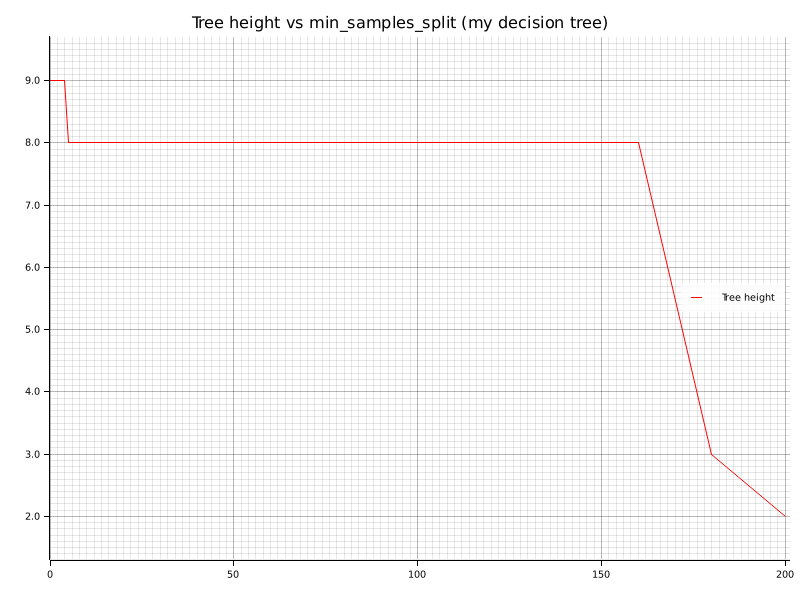
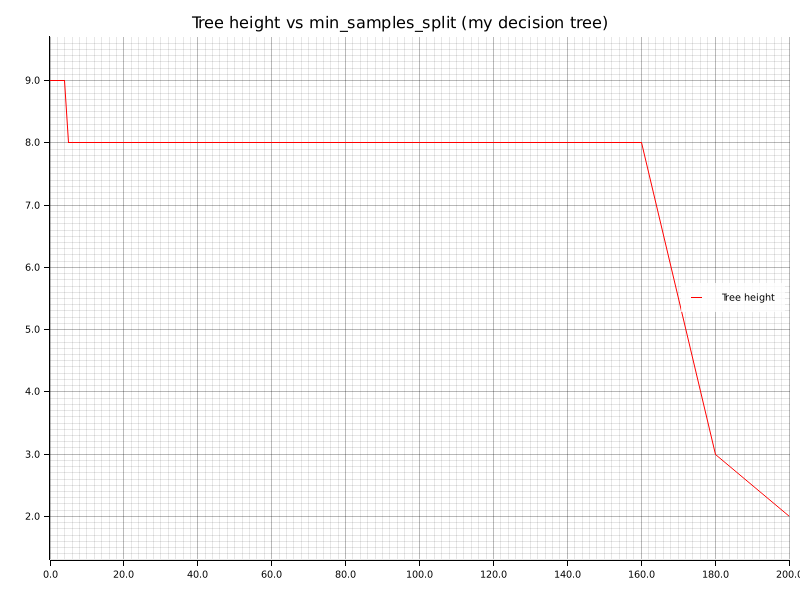
feat: add more plots

diff --git a/src/main.rs b/src/main.rs
@@ -28,7 +28,7 @@ fn split(samples: &[Sample], train_ratio: f64) -> (Vec<Sample>, Vec<Sample>) {
 }
 
 fn plot_curve(
-    values: &[(i32, f64)],
+    values: &[(f64, f64)],
     title: &str,
     label: &str,
     filename: &str,
@@ -44,7 +44,7 @@ fn plot_curve(
     let margin = 0.1 * (max_value - min_value);
 
     #[allow(clippy::range_plus_one)]
-    let x_range = values[0].0..values.last().unwrap().0 + 1;
+    let x_range = values[0].0..values.last().unwrap().0;
     let y_range = (min_value - margin)..(max_value + margin);
 
     let mut chart = ChartBuilder::on(&root)
@@ -152,8 +152,12 @@ fn main() {
     run_decision_tree(&train_samples, &test_samples);
     run_random_forest(&train_samples, &test_samples);
 
-    explore_my_decision_tree(&train_samples);
-    explore_smartcore_decision_tree(&train_samples);
+    explore_my_decision_tree_min_samples_split(&train_samples);
+    explore_my_decision_tree_min_gain(&train_samples);
+    explore_my_decision_tree_max_depth(&train_samples);
+    explore_smartcore_decision_tree_min_samples_split(&train_samples);
+    explore_smartcore_decision_tree_min_samples_leaf(&train_samples);
+    explore_smartcore_decision_tree_max_depth(&train_samples);
 
     explore_my_decision_tree_accuracy(&train_samples, &test_samples);
     explore_smartcore_decision_tree_accuracy(&train_samples, &test_samples);
@@ -192,8 +196,12 @@ fn run_random_forest(train_samples: &[Sample], test_samples: &[Sample]) {
 const MIN_SAMPLES_SPLITS: [usize; 22] = [
     0, 1, 2, 3, 4, 5, 10, 15, 20, 30, 40, 50, 60, 70, 80, 90, 100, 120, 140, 160, 180, 200,
 ];
+const MIN_GAINS: [f64; 14] = [
+    0.01, 0.02, 0.03, 0.04, 0.05, 0.06, 0.07, 0.08, 0.09, 0.1, 0.2, 0.3, 0.4, 0.5,
+];
+const MAX_DEPTHS: [usize; 10] = [1, 2, 3, 4, 5, 6, 7, 8, 9, 10];
 
-fn explore_my_decision_tree(train_samples: &[Sample]) {
+fn explore_my_decision_tree_min_samples_split(train_samples: &[Sample]) {
     const MAX_DEPTH: usize = 1000;
     const MIN_GAIN: f64 = 0.00001;
 
@@ -204,10 +212,7 @@ fn explore_my_decision_tree(train_samples: &[Sample]) {
         tree.fit(train_samples);
 
         let tree_height = tree.get_height();
-        height_data.push((
-            i32::try_from(min_samples_split).unwrap(),
-            tree_height as f64,
-        ));
+        height_data.push((min_samples_split as f64, tree_height as f64));
     }
 
     plot_curve(
@@ -219,7 +224,53 @@ fn explore_my_decision_tree(train_samples: &[Sample]) {
     .unwrap();
 }
 
-fn explore_smartcore_decision_tree(train_samples: &[Sample]) {
+fn explore_my_decision_tree_min_gain(train_samples: &[Sample]) {
+    const MAX_DEPTH: usize = 1000;
+    const MIN_SAMPLES_SPLIT: usize = 5;
+
+    let mut height_data = Vec::new();
+
+    for &min_gain in &MIN_GAINS {
+        let mut tree = DecisionTree::new(MAX_DEPTH, MIN_SAMPLES_SPLIT, min_gain);
+        tree.fit(train_samples);
+
+        let tree_height = tree.get_height();
+        height_data.push((min_gain, tree_height as f64));
+    }
+
+    plot_curve(
+        &height_data,
+        "Tree height vs min_gain (my decision tree)",
+        "Tree height",
+        "tree_height_vs_min_gain.png",
+    )
+    .unwrap();
+}
+
+fn explore_my_decision_tree_max_depth(train_samples: &[Sample]) {
+    const MIN_SAMPLES_SPLIT: usize = 1;
+    const MIN_GAIN: f64 = 0.00001;
+
+    let mut height_data = Vec::new();
+
+    for &max_depth in &MAX_DEPTHS {
+        let mut tree = DecisionTree::new(max_depth, MIN_SAMPLES_SPLIT, MIN_GAIN);
+        tree.fit(train_samples);
+
+        let tree_height = tree.get_height();
+        height_data.push((max_depth as f64, tree_height as f64));
+    }
+
+    plot_curve(
+        &height_data,
+        "Tree height vs max_depth (my decision tree)",
+        "Tree height",
+        "tree_height_vs_max_depth.png",
+    )
+    .unwrap();
+}
+
+fn explore_smartcore_decision_tree_min_samples_split(train_samples: &[Sample]) {
     let x = DenseMatrix::from_2d_array(
         &train_samples
             .iter()
@@ -247,10 +298,7 @@ fn explore_smartcore_decision_tree(train_samples: &[Sample]) {
 
         let tree_height = tree.depth();
 
-        height_data.push((
-            i32::try_from(min_samples_split).unwrap(),
-            tree_height as f64,
-        ));
+        height_data.push((min_samples_split as f64, tree_height as f64));
     }
 
     plot_curve(
@@ -258,6 +306,87 @@ fn explore_smartcore_decision_tree(train_samples: &[Sample]) {
         "Tree height vs min_samples_split (smartcore decision tree)",
         "Tree height",
         "tree_height_vs_min_samples_split_smartcore.png",
+    )
+    .unwrap();
+}
+
+fn explore_smartcore_decision_tree_min_samples_leaf(train_samples: &[Sample]) {
+    let x = DenseMatrix::from_2d_array(
+        &train_samples
+            .iter()
+            .map(|sample| sample.features.as_slice())
+            .collect::<Vec<_>>(),
+    )
+    .unwrap();
+    let y = train_samples
+        .iter()
+        .map(|sample| sample.label as u32)
+        .collect::<Vec<u32>>();
+
+    let mut height_data = Vec::new();
+
+    // NOTE: not a typo
+    for &min_samples_leaf in &MIN_SAMPLES_SPLITS {
+        let params = DecisionTreeClassifierParameters {
+            criterion: SplitCriterion::Gini,
+            max_depth: None,
+            min_samples_leaf,
+            min_samples_split: 5,
+            seed: Some(1234),
+        };
+
+        let tree = DecisionTreeClassifier::fit(&x, &y, params).unwrap();
+
+        let tree_height = tree.depth();
+
+        height_data.push((min_samples_leaf as f64, tree_height as f64));
+    }
+
+    plot_curve(
+        &height_data,
+        "Tree height vs min_samples_leaf (smartcore decision tree)",
+        "Tree height",
+        "tree_height_vs_min_samples_leaf_smartcore.png",
+    )
+    .unwrap();
+}
+
+fn explore_smartcore_decision_tree_max_depth(train_samples: &[Sample]) {
+    let x = DenseMatrix::from_2d_array(
+        &train_samples
+            .iter()
+            .map(|sample| sample.features.as_slice())
+            .collect::<Vec<_>>(),
+    )
+    .unwrap();
+    let y = train_samples
+        .iter()
+        .map(|sample| sample.label as u32)
+        .collect::<Vec<u32>>();
+
+    let mut height_data = Vec::new();
+
+    for &max_depth in &MAX_DEPTHS {
+        let params = DecisionTreeClassifierParameters {
+            criterion: SplitCriterion::Gini,
+            max_depth: Some(u16::try_from(max_depth).unwrap()),
+            min_samples_leaf: 0,
+            min_samples_split: 5,
+            seed: Some(1234),
+        };
+
+        let tree = DecisionTreeClassifier::fit(&x, &y, params).unwrap();
+
+        let tree_height = tree.depth();
+
+        height_data.push((max_depth as f64, tree_height as f64));
+    }
+
+    plot_curve(
+        &height_data,
+        "Tree height vs max_depth (smartcore decision tree)",
+        "Tree height",
+        "tree_height_vs_max_depth_smartcore.png",
     )
     .unwrap();
 }

diff --git a/src/decision_tree.rs b/src/decision_tree.rs
@@ -29,7 +29,7 @@ impl DecisionTree {
     }
 
     pub fn fit(&mut self, samples: &[Sample]) {
-        self.root = Some(self.build_tree(samples, 0));
+        self.root = Some(self.build_tree(samples, 1));
     }
 
     pub fn predict(&self, sample: &Sample) -> Diagnosis {
